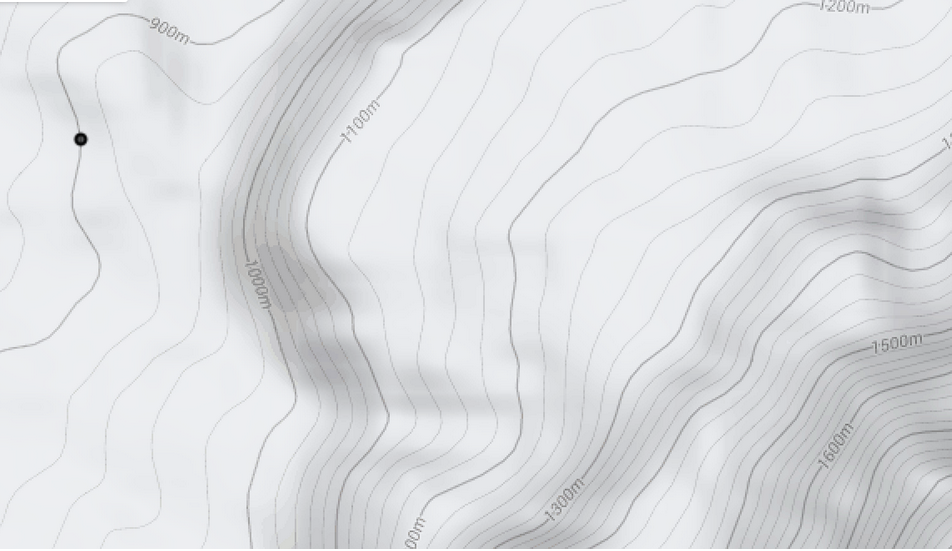
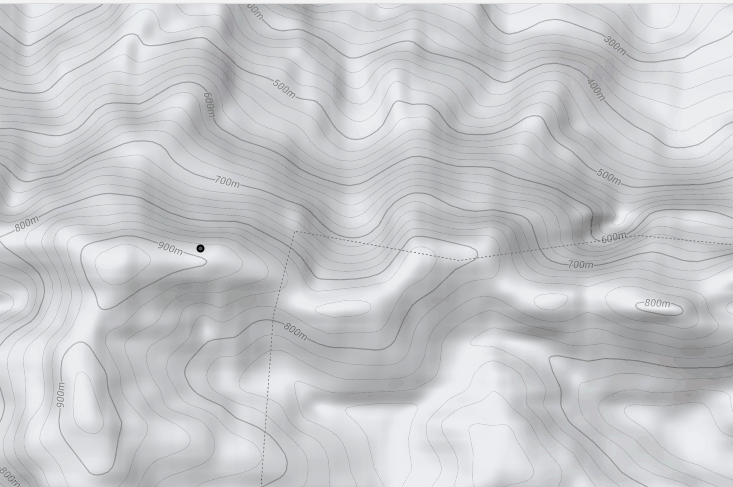
elevation updated

diff --git a/intro-gee1/elevation.md b/intro-gee1/elevation.md
@@ -42,23 +42,22 @@ var elevationVis = {
 Map.addLayer(elevation, elevationVis, 'Elevation');
 ```
 
-Now let’s analyze the terrain height at some specific locations. The country of Guyana consists of four main geographic regions: the interior savanna (Rupununi Savannah), the low coastal plain (North Atlantic Ocean), a hilly sand and clay zone across the entire territory, and the highlands with mountain chains. Within the Pakaraima Mountains we find the Mount Roraima peak with 2,772 meters (9,094 ft) of elevation.
+Now let’s analyze the terrain height at some specific locations. Trinidad is traversed by three distinct mountain ranges that are a continuation of the Venezuelan coastal cordillera. The Northern Range, an outlier of the Andes Mountains of Venezuela, consists of rugged hills that parallel the coast. This range rises into two peaks. The highest, El Cerro del Aripo, is 940 metres (3,084 ft) high; the other, El Tucuche, reaches 936 metres (3,071 ft). 
 
-<img align="center" src="../images/intro-gee-images/27_pakaraima.png" hspace="15" vspace="10" width="600">
+<img align="center" src="../images/intro-gee-images/27_ElCerroDelAripo.png" hspace="15" vspace="10" width="600">
 
-Figure 27. The Pakaraima mountains, Guyana. Source: Wikipedia
+Figure 27. El Cerro Del Aripo, Trinidad. [Source](http://cstrinidadandtobago.weebly.com/el-cerro-del-aripo.html)
 
 ```javascript
-// Around Pakaraima mountains and Mount Roraima lat + 5.26°, lon -60.76°
-var p01 = ee.Geometry.Point(-60.76, 5.26)
+// Around El Cerro Del Aripo Mtn
+var p01 = ee.Geometry.Point(-61.24, 10.73)
 
-Map.addLayer(p01, {}, 'Mount Roraima');
-/****  	****   	****/
+Map.addLayer(p01, {}, 'point');
 ```
 
 <img align="center" src="../images/intro-gee-images/28_elev_mount.png" hspace="15" vspace="10" width="600">
 
-Figure 28. DEM layer and the location over Pakaraima mountains chain
+Figure 28. DEM layer and the location over El Cerro Del Aripo mountain
 
 Black and gray colors correspond to lowlands and plains, while white and bright pixels correspond to highlands and mountain peaks. We are going to use the Inspector tool.  Click on it, and then we click on the point we added in order to see the elevation value we have there.
 
@@ -72,7 +71,7 @@ Hence, the values from all the add layers will be visible for the specified geog
 
 Figure 30. Location values
 
-In the Inspector panel we will see the values for the layers we have added by code, either activated or deactivated. First, we can identify low surface reflectance values from the Sentinel layer. Second, we can observe that the elevation at this location is 885 meters.  This zone harbors the greatest terrain heights like for example the Pakaraima mountains. Let’s do a quick exercise of visualization. The default view of the map visor 
+In the Inspector panel we will see the values for the layers we have added by code, either activated or deactivated. First, we can identify low surface reflectance values from the Sentinel layer. Second, we can observe that the elevation at this location is 901 meters. Let’s do a quick exercise of visualization. The default view of the map visor 
 
 <img align="center" src="../images/intro-gee-images/31_mode.png" hspace="15" vspace="10" width="300">
 
@@ -95,3 +94,5 @@ Figure 33. Map terrain view
 Figure 34. Terrain view
 
 We can easily recognize our point of reference located at the 900 m contour line.
+
+Code Checkpoint: [https://code.earthengine.google.com/71a5f9026b25d26591967114e1e36cb0](https://code.earthengine.google.com/71a5f9026b25d26591967114e1e36cb0)
